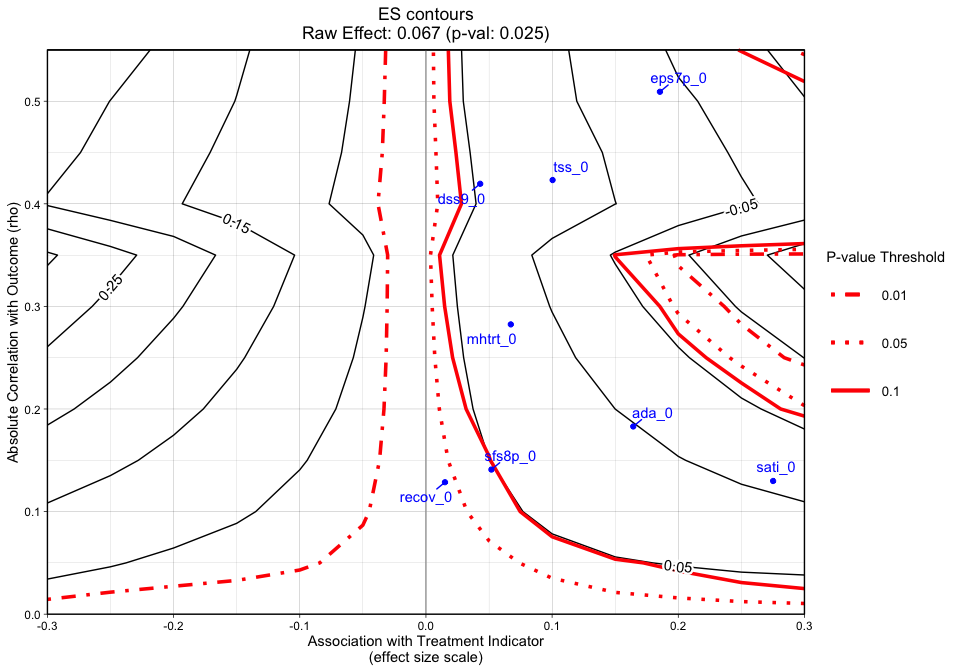
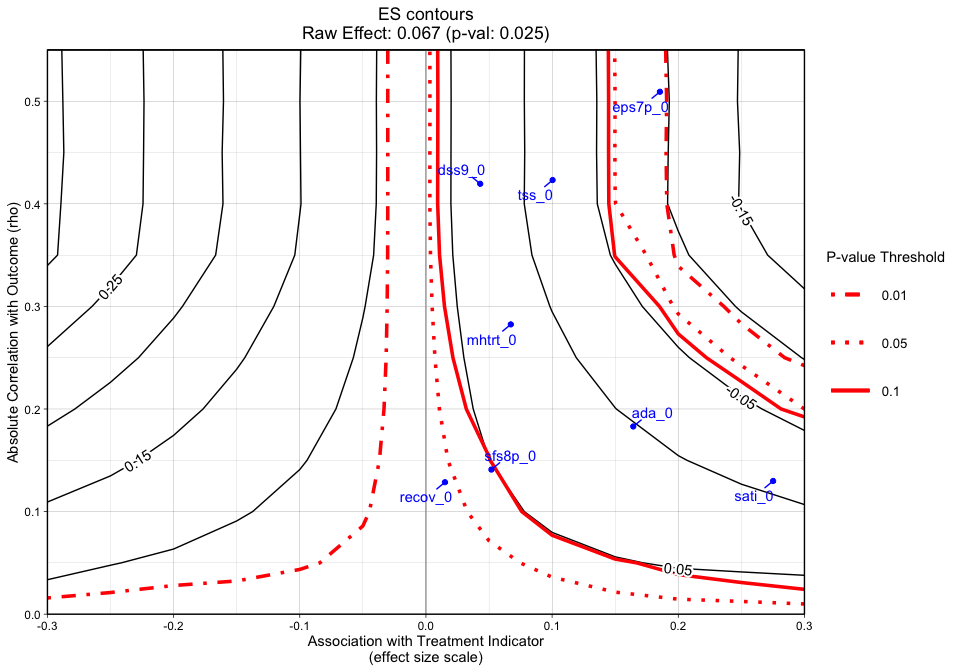
update vignette

diff --git a/README.md b/README.md
@@ -5,7 +5,7 @@
 # Introduction
 
 *Note: This is a work in progress.. This document was lasted updated
-2020-12-02 18:47:14*
+2020-12-15 17:07:58*
 
 The <ins>O</ins>mitted <ins>V</ins>ariable <ins>T</ins>ool (`OVtool`)
 package was designed to assess the sensitivity of research findings to
@@ -75,21 +75,6 @@ you restart your R session after running:*
 ``` r
 # install.packages("devtools")
 devtools::install_github("jpane24/OVtool", ref='master') 
-```
-
-    #> 
-    #>      checking for file ‘/private/var/folders/ks/ll8v5y8x6rz_cgvtgk6zln90b6fd3c/T/RtmpENrAyO/remotes59a2715d52b8/jpane24-OVtool-2fbfe58/DESCRIPTION’ ...  ✓  checking for file ‘/private/var/folders/ks/ll8v5y8x6rz_cgvtgk6zln90b6fd3c/T/RtmpENrAyO/remotes59a2715d52b8/jpane24-OVtool-2fbfe58/DESCRIPTION’
-    #>   ─  preparing ‘OVtool’:
-    #>      checking DESCRIPTION meta-information ...  ✓  checking DESCRIPTION meta-information
-    #>   ─  checking for LF line-endings in source and make files and shell scripts
-    #>   ─  checking for empty or unneeded directories
-    #>   ─  building ‘OVtool_1.0.0.tar.gz’
-    #>      Warning: invalid uid value replaced by that for user 'nobody'
-    #>    Warning: invalid gid value replaced by that for user 'nobody'
-    #>      
-    #> 
-
-``` r
 # we recommend restarting your R session after running the previous line of code
 # for the first time on your machine
 library(OVtool)
@@ -671,14 +656,14 @@ plot.ov(ovtool_results_twang_att, print_graphic = "1", col = "bw")
 
 The contours shown in Figure 4 are relatively smooth but we would like
 to smooth them out if possible by simulating our unobserved confounder
-an additional 200 times. The user can do this by running the following
+an additional 50 times. The user can do this by running the following
 lines of code.
 
 ``` r
 # If you want to add repetitions, run the following line. You may change more_reps
 ovtool_results_twang_att = add_reps(OVtool_results = ovtool_results_twang_att,
                                     model_results = results_att,
-                                    more_reps = 200)
+                                    more_reps = 50)
 ```
 
     #> [1] "8% Done!"
@@ -733,8 +718,8 @@ summary.ov(object = ovtool_results_twang_att, model_results = results_att)
     #> [1] "88% Done!"
     #> [1] "100% Done!"
     #> [1] "Recommendation for reporting the sensitivity analyses"
-    #> [1] "The sign of the estimated effect is expected to remain consistent when simulated unobserved confounders have the same strength of associations with the treatment indicator and outcome that are seen in 6 of the 8 observed confounders. In the most extreme observed case, eps7p_0, the estimated effect size is reduced by 156 percent of the observed raw effect size, 0.067. The sign of the estimate would not be expected to be preserved for unobserved confounders that have the same strength of association with the treatment indicator and outcome as eps7p_0, sati_0."
-    #> [1] "Statistical significance at the 0.05 level is expected to be robust to unobserved confounders with strengths of associations with the treatment indicator and outcome that are seen in 1 of the 8 observed confounders. In the most extreme observed case, the p-value would be expected to increase from 0.025 to 0.998. Significance at the 0.05 level would not be expected to be preserved for unobserved confounders that have the same strength of association with the treatment indicator and outcome as eps7p_0, sfs8p_0, sati_0, ada_0, tss_0, mhtrt_0, dss9_0."
+    #> [1] "The sign of the estimated effect is expected to remain consistent when simulated unobserved confounders have the same strength of associations with the treatment indicator and outcome that are seen in 5 of the 8 observed confounders. In the most extreme observed case, eps7p_0, the estimated effect size is reduced by 240 percent of the observed raw effect size, 0.067. The sign of the estimate would not be expected to be preserved for unobserved confounders that have the same strength of association with the treatment indicator and outcome as eps7p_0, sati_0, tss_0."
+    #> [1] "Statistical significance at the 0.05 level is expected to be robust to unobserved confounders with strengths of associations with the treatment indicator and outcome that are seen in 2 of the 8 observed confounders. In the most extreme observed case, the p-value would be expected to increase from 0.025 to 0.999. Significance at the 0.05 level would not be expected to be preserved for unobserved confounders that have the same strength of association with the treatment indicator and outcome as sfs8p_0, sati_0, ada_0, tss_0, mhtrt_0, dss9_0."
 
 # Conclusion
 
